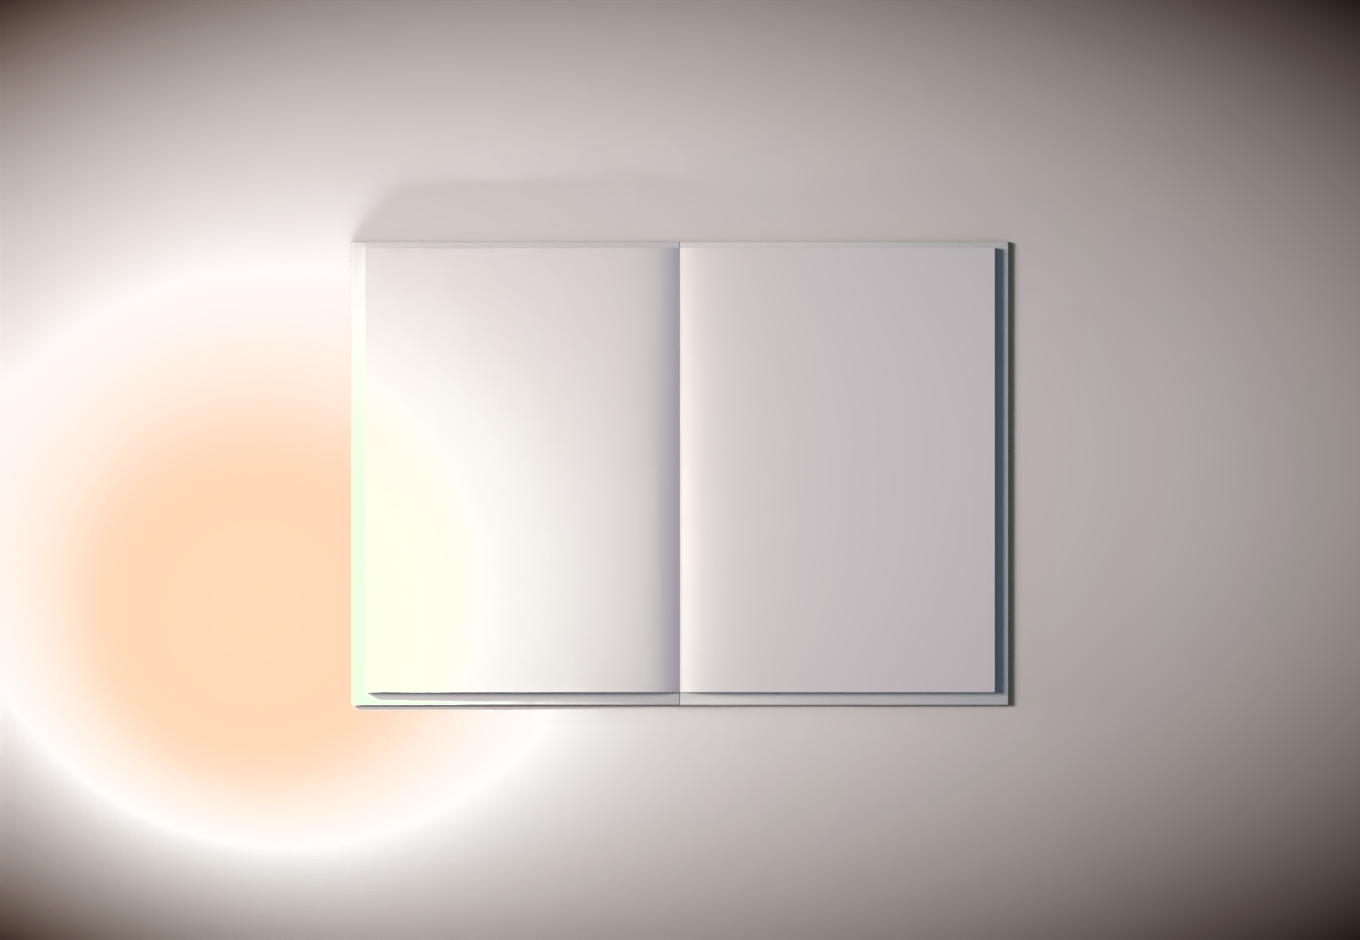
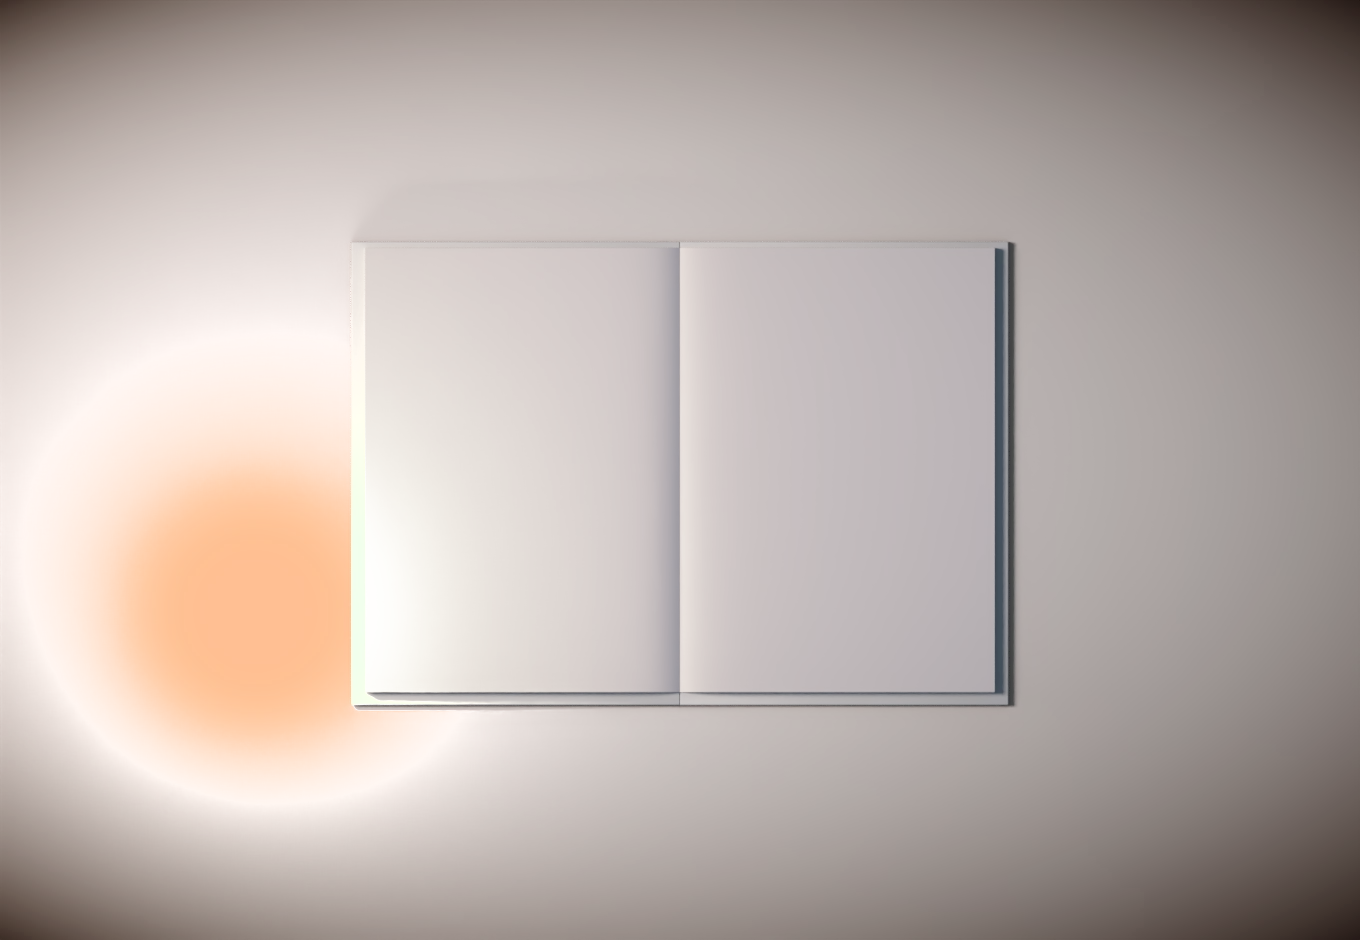
Lumière : la bougie éclaire la table et la page, l'ombre du livre suit le zoom
- composer.py : la bougie n'est plus balancée sur le feu (orangée), sa part est réduite pour former une
  flaque qui décroît (×0,9) ; plafond canal par canal, exactement le dessin pour le papier (un calque qui
  éclaircit le papier délave l'encre), bien plus haut pour le bois : une vraie lueur chaude autour de la
  bougie, le coin de la page gauche 14 % plus clair que son centre ; aperçu sans flamme cuite (WebGL).
- Zoom fin par défaut à 1 (clé gc:camera:v3), l'échelle du rendu tracé ; les calques tracés du livre
  suivent le zoom de la caméra (zoomLivre) : ombre et liserés restent sous la couverture.
- Vérifications : clés gc:reglages:v4 et gc:camera:v3.

Claude-Session: https://claude.ai/code/session_01HsT19mmaSW8gLnbYG5FUm2

diff --git a/src/lib/camera.tsx b/src/lib/camera.tsx
@@ -10,6 +10,7 @@
 //   Alt + « + » / « - » → zoom fin ±0,01 ;  0 → loupe à 1× et zoom fin remis à 1
 //   (les crans de distance ne se règlent plus que dans le menu ; ↑ / ↓ sont au feuillet volant.)
 import React from 'react';
+import { motionValue } from './motion';
 import { DEFAULT_SETTINGS, DISTANCES, type Distance } from './settings';
 import { demanderLoupe, loupeVisee, palierVoisin } from './loupe';
 
@@ -25,7 +26,9 @@ export function zoomBornes(d: Distance): [number, number] {
   return d === 'proche' ? [0.6, 1.08] : d === 'moyenne' ? [0.6, 1.12] : [0.6, 1.15];
 }
 // v2 : le zoom par défaut passe à 0,95 et le plancher à 0,6 ; l'ancien réglage (v1) n'est plus relu.
-const STORAGE_KEY = 'gc:camera:v2';
+// v3 : le zoom par défaut revient à 1, l'échelle de l'éclairage tracé (scripts/lumiere3d : le livre y est
+// rendu à 1) ; l'ancien réglage (v2, écrit à 0,95 dès la première visite au toucher) n'est plus relu.
+const STORAGE_KEY = 'gc:camera:v3';
 
 export interface CameraState {
   distance: Distance;
@@ -46,7 +49,13 @@ const clampZoom = (z: number, d?: Distance) => {
   const [lo, hi] = d ? zoomBornes(d) : [ZOOM_MIN, ZOOM_MAX];
   return Math.round(Math.min(hi, Math.max(lo, z)) * 100) / 100;
 };
-export const CAMERA_DEFAULT: CameraState = { distance: DEFAULT_SETTINGS.distance, zoom: 0.95 };
+export const CAMERA_DEFAULT: CameraState = { distance: DEFAULT_SETTINGS.distance, zoom: 1 };
+
+/**
+ * Zoom fin du livre tel qu'il est à l'écran, ressort compris (tenu à jour par la caméra du livre,
+ * src/components/Livre/Camera.tsx) : les calques tracés du livre le suivent (src/components/Lumiere).
+ */
+export const zoomLivre = motionValue(1);
 
 function load(): CameraState {
   try {

diff --git a/src/components/Lumiere/Lumiere.tsx b/src/components/Lumiere/Lumiere.tsx
@@ -3,6 +3,7 @@ import { LazyMotion, domMax, m, useTransform } from '../../lib/motion';
 import { flammeBougie, useFeu } from '../../lib/feu';
 import { assetInfo, cssUrl } from '../../lib/assets';
 import { useSettings } from '../../lib/settings';
+import { zoomLivre } from '../../lib/camera';
 import tracee from './tracee.json';
 import './Lumiere.css';
 
@@ -147,13 +148,14 @@ function LumiereTracee() {
         {ETATS.map((e) => {
           const nom = e === 'vide' ? 'vide' : `${distance}-${e}`;
           if (!assetInfo(`lumiere/${nom}`)) return null;
+          // le livre rendu à l'échelle 1 : ses calques suivent le zoom fin de la caméra (même centre)
           return (
-            <div key={e} className="gc-lumiere-tracee" data-gc-lumiere-etat={e}>
+            <m.div key={e} className="gc-lumiere-tracee" data-gc-lumiere-etat={e} style={e === 'vide' ? undefined : { scale: zoomLivre }}>
               {/* au-delà des calques (téléphone, tablette) : PenombreTable, sur la table */}
               <div className="gc-lumiere-tracee__fond" style={{ ...boite, backgroundImage: cssUrl(`lumiere/${nom}`) }} />
               <m.div className="gc-lumiere-tracee__voile" data-gc-lumiere="feu" style={{ ...boite, backgroundImage: cssUrl(`lumiere/${nom}-feu`), opacity: feuOp }} />
               <m.div className="gc-lumiere-tracee__voile" data-gc-lumiere="bougie" style={{ ...boite, backgroundImage: cssUrl(`lumiere/${nom}-bougie`), opacity: bougieOp }} />
-            </div>
+            </m.div>
           );
         })}
       </div>

diff --git a/src/components/Livre/Camera.tsx b/src/components/Livre/Camera.tsx
@@ -1,5 +1,6 @@
 import React from 'react';
 import { animate, m, useMotionValue, useReducedMotion, useTransform, SPRINGS, type MotionValue } from '../../lib/motion';
+import { zoomLivre } from '../../lib/camera';
 import { cadenceStable, emettre } from './evenements';
 import { r3 } from './geometrie';
 
@@ -40,6 +41,12 @@ export function Camera({ zoom, fondu, x, arrivee, present, children }: CameraPro
   const opacity = useTransform([fondu ?? un, present ?? un], ([f, pr]: number[]) => f * pr);
 
   React.useEffect(() => () => { alive.current = false; anim.current?.stop(); }, []);
+  // le zoom à l'écran, pour les calques tracés du livre (src/lib/camera.tsx, zoomLivre)
+  React.useEffect(() => {
+    zoomLivre.set(z.get());
+    const off = z.on('change', (v) => zoomLivre.set(v));
+    return () => { off(); zoomLivre.set(1); };
+  }, [z]);
 
   React.useEffect(() => {
     const el = ref.current;

diff --git a/src/artboards/Carnet/Carnet.tsx b/src/artboards/Carnet/Carnet.tsx
@@ -33,7 +33,7 @@ export interface CarnetProps {
   coteInitial?: 'gauche' | 'droite';
 }
 
-const CLE_CAMERA = 'gc:camera:v2';
+const CLE_CAMERA = 'gc:camera:v3';
 
 /** Sur un écran tactile, le cran par défaut est « proche » (s'il n'a jamais été réglé). */
 function cranTactileParDefaut(tactile: boolean): void {

diff --git a/src/lib/motion.ts b/src/lib/motion.ts
@@ -11,6 +11,7 @@ export {
   AnimatePresence,
   domMax,
   animate,
+  motionValue,
   useMotionValue,
   useMotionValueEvent,
   useTransform,

diff --git a/scripts/lumiere3d/composer.py b/scripts/lumiere3d/composer.py
@@ -36,8 +36,9 @@ SCENE_W, SCENE_H = 1920, 1080
 # bougie son éclairement au coin de la page gauche le plus proche d'elle (95e centile).
 RENDU = {'bougie': (1.0, 0.62, 0.30), 'feu': (1.0, 0.5, 0.22), 'ambiance': (0.42, 0.52, 0.85)}
 COULEUR = {'bougie': (1.0, 0.78, 0.45), 'feu': (1.0, 0.56, 0.30), 'ambiance': (0.55, 0.60, 0.75)}
-POIDS = {'bougie': 1.8, 'feu': 0.42, 'ambiance': 0.12}
+POIDS = {'bougie': 0.9, 'feu': 0.42, 'ambiance': 0.12}
 BAS = {'bougie': 0.5, 'feu': 0.6}          # flamme basse : part de la source au plus bas
+BLANC_BOUGIE = 0.3                          # balance des blancs sur la bougie : en partie seulement, elle reste orangée
 BLANC = 0.6                                 # balance des blancs sur le feu (0 : aucune, 1 : complète)
 VIGNETTE = 0.22                             # assombrissement optique aux coins de l'écran
 LUM = np.array([0.2126, 0.7152, 0.0722], np.float32)
@@ -85,20 +86,33 @@ def vignette(h: int, w: int):
 
 
 def lumiere(L, N, wb, mult):
-    R = sum(POIDS[g] * mult.get(g, 1.0) / N[g] * L[g] for g in L)
+    """La pièce (feu et pénombre), la balance des blancs faite sur le feu."""
+    R = sum(POIDS[g] * mult.get(g, 1.0) / N[g] * L[g] for g in L if g != 'bougie')
     return R / wb
 
 
-def tonal(R, B):
-    """Épaule douce vers un plafond : le papier ne devient jamais plus clair que dessiné (plafond ≈ 1),
-    le sombre (bois, toile) peut s'éclaircir près de la bougie. Les dégradés restent lisibles jusqu'au
-    plafond au lieu d'être écrêtés."""
-    y = np.maximum(R @ LUM, 1e-6)[..., None]
+def plafond(B):
+    """Le plus clair que la lumière puisse rendre une surface : son dessin, exactement, pour le papier (un
+    calque qui éclaircit le papier délave l'encre posée dessus), bien plus pour le sombre (bois, toile)."""
     lb = enc(B) @ LUM
-    P = (1 + 3.2 * (1 - lb) ** 2)[..., None]
-    k = 0.72 * P
-    t = np.where(y <= k, y, k + (P - k) * (1 - np.exp(-(y - k) / (P - k))))
-    return R * t / y
+    return (1 + 10 * np.maximum(0.8 - lb, 0) ** 2)[..., None]
+
+
+def tonal(R, B):
+    """Épaule douce, canal par canal, vers le plafond : la flaque de la bougie arrive au papier tel qu'il est
+    dessiné, en gardant sa couleur tant qu'elle peut (le bleu s'éteint d'abord), sans jamais éclaircir le
+    papier ; les dégradés restent lisibles au lieu d'être écrêtés."""
+    P = plafond(B)
+    k = 0.6 * P
+    return np.where(R <= k, R, k + (P - k) * (1 - np.exp(-(R - k) / (P - k))))
+
+
+def eclairage(L, N, wb, mult, B, vg):
+    """La pièce (balance des blancs sur le feu) et la bougie, orangée (balance en partie seulement) : une
+    flaque chaude sur la table et le coin de la page près d'elle, qui décroît vers le pli ; sa part vacille
+    (voile -bougie)."""
+    bougie = POIDS['bougie'] * mult.get('bougie', 1.0) / N['bougie'] * L['bougie'] / wb ** (BLANC_BOUGIE / BLANC)
+    return tonal((lumiere(L, N, wb, mult) + bougie) * vg, B)
 
 
 def calque(T, B):
@@ -128,7 +142,7 @@ def octets(x):
 def etat(rendus: str, nom: str, N, wb):
     L, B = lire(rendus, nom)
     vg = vignette(*B.shape[:2])
-    T = lambda m: B * tonal(lumiere(L, N, wb, m) * vg, B)
+    T = lambda m: B * eclairage(L, N, wb, m, B, vg)
     haut = T({})
     return {
         '': calque(haut, B),
@@ -181,8 +195,11 @@ def apercu(calques, capture: str, sortie: str, o_bougie: float = 0.1, o_feu: flo
     img = poser(img, calques['feu'], o_feu)
     geo = json.load(open(os.path.join(ROOT, 'src/components/Bougie/geometrie.json')))
     for nom in ('cire', 'flamme'):
+        f = os.path.join(ROOT, f'design-system/baked/bougie/{nom}.webp')
+        if nom not in geo or not os.path.exists(f):
+            continue  # flamme en WebGL (Bougie.tsx) : pas d'image cuite
         g = geo[nom]
-        im = Image.open(os.path.join(ROOT, f'design-system/baked/bougie/{nom}.webp')).convert('RGBA')
+        im = Image.open(f).convert('RGBA')
         im = im.resize((round(g['w']), round(g['h'])), Image.BILINEAR)
         m = np.zeros((SCENE_H, SCENE_W), np.float32)
         x, y = round(g['x']), round(g['y'])
